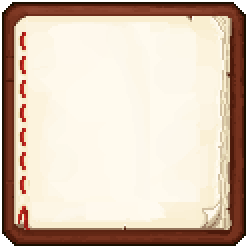
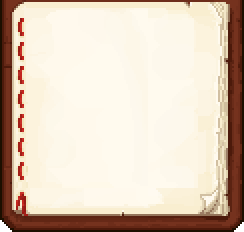
Revamped infopanel

Changed region(s): [[0.0, 0.0, 1.0, 1.0]]

diff --git a/css/main.css b/css/main.css
@@ -1,1 +1,1 @@
-html,body,div,span,applet,object,iframe,h1,h2,h3,h4,h5,h6,p,blockquote,pre,a,abbr,acronym,address,big,cite,code,del,dfn,em,img,ins,kbd,q,s,samp,small,strike,strong,sub,sup,tt,var,b,u,i,center,dl,dt,dd,ol,ul,li,fieldset,form,label,legend,table,caption,tbody,tfoot,thead,tr,th,td,article,aside,canvas,details,embed,figure,figcaption,footer,header,hgroup,menu,nav,output,ruby,section,summary,time,mark,audio,video{margin:0;padding:0;border:0;font-size:100%;font:inherit;vertical-align:baseline}article,aside,details,figcaption,figure,footer,header,hgroup,menu,nav,section{display:block}body{line-height:1}ol,ul{list-style:none}blockquote,q{quotes:none}blockquote:before,blockquote:after,q:before,q:after{content:"";content:none}table{border-collapse:collapse;border-spacing:0}/*! Generated by Font Squirrel (https://www.fontsquirrel.com) on January 29, 2019 */@font-face{font-family:"Minecrafton";src:url("minecrafton-webfont.woff2") format("woff2"),url("minecrafton-webfont.woff") format("woff");font-weight:normal;font-style:normal}*{box-sizing:border-box;-webkit-user-select:none;user-select:none;-moz-user-select:none;-ms-user-select:none}h1,h2,h3,li,a,p{font-family:"Minecrafton","Minecraftia",monospace,sans-serif;color:#fff}h1{font-size:48px;text-shadow:3px 3px 0 rgba(0,0,0,.5)}h2,li,p{font-size:32px;text-shadow:2px 2px 0 rgba(0,0,0,.5)}h3{font-size:16px;text-shadow:1px 1px 0 rgba(0,0,0,.5)}a{cursor:pointer;text-decoration:underline}a:hover{text-decoration:none}.start-message{text-align:center;padding:100px 0}.start-message h2{margin:20px 0}body,html,.base{height:100%}body{background:url("../images/backgrounds/dirt_dark.png") repeat left top,#281c13}body.locked{position:fixed;overflow-y:scroll;width:100%}.base{display:flex;flex-direction:column;align-items:stretch}.base .top,.base footer{flex-shrink:0}.base main{flex:1}.base .top header{background:url("../images/backgrounds/stone.png") repeat left top,#505050;z-index:10;display:flex;align-items:center;padding:15px 10px 10px 10px}.base .top header .header-content{display:flex;align-items:center;width:100%}.base .top header .header-content .logo{height:25px}.base .top header .header-content .separator{width:2px;background:#fff;border-right:1px solid rgba(0,0,0,.8);border-bottom:1px solid rgba(0,0,0,.8);margin:0 10px;align-self:stretch}.base .top header .header-content .box{display:flex;flex-direction:column;align-items:center}.base .top header .header-content .box .title{font-size:16px;text-shadow:1px 1px 0 rgba(0,0,0,.5);text-align:right}.base .top header .header-content .box .content{display:flex;flex-direction:column}.base .top header .header-content .box .relevant{display:none}.base .top header .header-content .box #edition_description{font-style:italic}.base .top header #button-nav-show{width:32px;height:32px;border:none;outline:none;cursor:pointer;background:url("../images/icons/ui/button_hamburger.png") no-repeat center center;display:block;padding:0;flex-shrink:0;background-size:cover}@media(min-width: 750px){.base .top header{padding:20px}.base .top header .header-content .logo{height:unset}.base .top header .header-content .separator{margin:0 30px}.base .top header .header-content .box{align-items:flex-start;margin-top:-7px}.base .top header .header-content .box .relevant{display:block}.base .top header .header-content .box .title{font-size:32px;text-shadow:2px 2px 0 rgba(0,0,0,.5);text-align:left}.base .top header .header-content .box .title,.base .top header .header-content .box .content{margin:0}.base .top header .header-content .box #edition_description{font-style:normal}.base .top header #button-nav-show{width:64px;height:64px}}.base footer{background:url("../images/backgrounds/stone.png") repeat left top,#505050;padding:20px}.base footer h3{text-align:right}#button-options{position:sticky}.editions-nav{background:url("../images/backgrounds/stone_dark.png") repeat left top local,#343434;position:fixed;top:0;right:0;height:100%;z-index:200;transition:width .5s;width:0;display:flex;flex-direction:column;overflow-x:hidden;overflow-y:auto;box-shadow:0 0 20px 0 rgba(0,0,0,.5);border-left:0 solid #484848}.editions-nav #button-nav-hide{flex-grow:0;flex-shrink:0;width:32px;height:32px;border:none;outline:none;cursor:pointer;background:url("../images/icons/ui/button_return.png") no-repeat center center;display:block;padding:0;background-size:cover;align-self:flex-end;margin:12.5px 10px}.editions-nav .editions-tab-list{flex-grow:0;flex-shrink:0}.editions-nav .editions-tab-list .edition-tab{cursor:pointer;display:block;text-shadow:2px 2px 0 rgba(0,0,0,.5);text-align:right;padding:5px 10px;white-space:nowrap}.editions-nav .editions-tab-list .edition-tab.empty{color:#585858;position:relative}.editions-nav .editions-tab-list .edition-tab.empty:before{content:"";display:block;position:absolute;left:0;right:0;top:0;bottom:0;background:url("../images/misc/soon.png") no-repeat bottom right}.editions-nav .editions-tab-list .edition-tab.selected{background:url("../images/backgrounds/stone.png") repeat left top,#505050;box-shadow:0 0 0 0 rgba(0,0,0,.8)}.editions-nav .options{flex:1;display:flex;flex-direction:column;align-items:stretch;justify-content:flex-end}.editions-nav .options button{border:4px solid transparent;border-bottom:6px solid transparent;outline:none;background:none;border-image-source:url("../images/borders/button.png");border-image-slice:4 4 6 4 fill;border-image-repeat:repeat repeat;color:#fff;font-size:32px;text-shadow:2px 2px 0 rgba(0,0,0,.5);font-family:"Minecrafton","Minecraftia",monospace,sans-serif;padding:.1em;margin:3px 2px;white-space:nowrap;cursor:pointer}.editions-nav .options button:hover{border-image-source:url("../images/borders/button_pressed.png")}.edition-panel{background:url("../images/backgrounds/plank_new.png") repeat-x left bottom,url("../images/backgrounds/plank_veryold.png") repeat-x left top,url("../images/backgrounds/plank_old.png") repeat left top,#54442a;display:flex;flex-direction:row;align-items:stretch;justify-content:flex-start}.timeline-panel{display:flex;flex-direction:row;justify-content:center;width:100%;box-shadow:0 0 30px 0 rgba(0,0,0,.75) inset}.timeline,.ruler,.upcoming-timeline{display:flex;position:relative;flex-direction:column}.preview{position:absolute;left:100%;margin-left:16px;display:flex;flex-direction:row;align-items:center}.preview>*{margin-right:16px}.preview img{height:32px}.preview .text-box{width:4em;display:none}.preview .text-box h2{margin:.4em 0;line-height:.8em}.preview .text-box .title{text-shadow:2px 0 #fff,4px 2px 0 rgba(0,0,0,.5);letter-spacing:2px}.preview .text-box .subtitle{font-style:italic}@media(min-width: 600px){.preview img{height:64px}}@media(min-width: 750px){.preview .text-box{display:block;width:8em}.preview img{height:32px}}@media(min-width: 900px){.preview .text-box{display:block;width:8em}.preview img{height:64px}}@media(min-width: 1200px){.preview .text-box{display:block;width:15em}}@media(min-width: 1600px){.preview .text-box{display:block;width:30em}}.timeline{margin:182px 0 172px;width:46px}.timeline .year{background:url("../images/timeline/timeline.png") top center repeat-y;margin:72px 0 82px 0;position:relative;display:flex;justify-content:center}.timeline .year::before{display:block;content:"";background:url("../images/timeline/timeline_start.png") no-repeat;width:46px;height:72px;position:absolute;top:-72px}.timeline .year::after{display:block;content:"";background:url("../images/timeline/timeline_end.png") no-repeat;width:46px;height:82px;position:absolute;bottom:-82px}.timeline .year .version{position:absolute;z-index:10;cursor:pointer;display:flex;flex-direction:row;align-items:center;justify-content:flex-end}.timeline .year .version.alt .preview{left:unset;right:100%;margin-left:unset;margin-right:16px;flex-direction:row-reverse}.timeline .year .version.alt .preview h1,.timeline .year .version.alt .preview h2,.timeline .year .version.alt .preview h3{text-align:right}.timeline .year .version.alt .preview>*{margin-right:unset;margin-left:16px}.timeline .year .version.alt .box .preview{margin-right:26px}.timeline .year .version.update-major{background:url("../images/timeline/icon_update_major.png");width:52px;height:52px;margin-top:-26px}.timeline .year .version.update-minor{background:url("../images/timeline/icon_update_minor.png");width:44px;height:44px;margin-top:-22px;z-index:15}.timeline .year .version.update-event{background:url("../images/timeline/icon_update_event.png");width:44px;height:44px;margin-top:-22px;z-index:15}.timeline .year .version.update-memory{background:url("../images/timeline/icon_update_memory.png");width:44px;height:44px;margin-top:-22px;z-index:15}.timeline .year .version.endpoint{width:80px;height:80px}.timeline .year .version.endpoint.first{background:url("../images/timeline/icon_first.png") no-repeat;margin-top:-90px;justify-content:center;align-items:center}.timeline .year .version.endpoint.first .box{margin-bottom:120px}.timeline .year .version.endpoint.first .preview{margin-left:1px}.timeline .year .version.endpoint.today{background:url("../images/timeline/icon_today.png") no-repeat;margin-top:10px;justify-content:center;align-items:center}.timeline .year .version.endpoint.today .box{align-self:flex-start;margin-top:120px}.timeline .year .version.nointeract{cursor:unset}.timeline .year .version .box{position:relative;border:8px solid transparent;border-image:url("../images/borders/panel_basic.png") 8 fill stretch stretch;padding:10px;display:flex;flex-direction:row;align-items:center;justify-content:flex-end;align-self:flex-end}.timeline .year .version .box .preview{margin-left:26px}.timeline .year .version .box .content{height:48px;display:flex;flex-direction:column;justify-content:center;align-items:stretch}.timeline .year .version .box .content h1{flex:1;white-space:nowrap;text-align:center;margin:-7px 0;font-size:32px;text-shadow:2px 2px 0 rgba(0,0,0,.5)}.timeline .upcoming-timeline{margin-top:388px;margin-bottom:-132px}.timeline .upcoming-timeline:before{display:block;content:"";background:url("../images/timeline/timeline_upcoming.png") no-repeat;width:46px;height:206px;position:absolute;top:-206px}@media(min-width: 900px){.timeline{margin:246px 0 236px 0}.timeline .year .version.endpoint.first .box{margin-bottom:140px}.timeline .year .version.endpoint.today .box{margin-top:140px}.timeline .year .version .box .content{height:72px}.timeline .year .version .box .content h1{font-size:48px;text-shadow:3px 3px 0 rgba(0,0,0,.5);margin:-10px 0}.timeline .upcoming-timeline{margin-top:452px;margin-bottom:-176px}}.ruler{padding:182px 0 172px 0;flex-shrink:0;width:32px;background:url("../images/backgrounds/log_new.png") repeat-x left bottom,url("../images/backgrounds/log_old.png") repeat left top,#6b5432}.ruler .year{position:relative;display:flex;flex-direction:column;justify-content:flex-start;align-items:center;padding-bottom:154px;box-sizing:content-box}.ruler .year .number{font-size:16px;text-shadow:1px 1px 0 rgba(0,0,0,.5)}.ruler .year .number-ago{display:none;text-shadow:1px 1px 0 rgba(0,0,0,.5)}.ruler .year:after{display:block;content:"";background:url("../images/ruler/arrow_tiny.png") no-repeat;width:40px;height:40px;position:absolute;left:100%;margin-top:-10px}.ruler .upcoming-ruler{margin-top:388px;margin-bottom:-132px}@media(min-width: 600px){.ruler{width:64px}.ruler .year .number{font-size:32px;text-shadow:2px 2px 0 rgba(0,0,0,.5);margin-top:-0.25em}.ruler .year .number-ago{display:block}}@media(min-width: 750px){.ruler{width:128px}.ruler .year .number{font-size:48px;text-shadow:3px 3px 0 rgba(0,0,0,.5);margin-top:-0.35em}.ruler .year:after{background:url("../images/ruler/arrow.png") no-repeat;width:76px;height:76px;margin-top:-28px}}@media(min-width: 900px){.ruler{padding:246px 0 236px 0}.ruler .upcoming-ruler{margin-top:452px;margin-bottom:-176px}}.infopanel-wrapper{position:fixed;width:100%;height:100%;display:flex;align-items:center;justify-content:center;top:0;left:0;z-index:90;background:rgba(0,0,0,.49)}.infopanel{border:52px solid transparent;border-image:url("../images/borders/panel_book.png") 52 fill repeat repeat;width:94%;height:96%;display:flex;flex-direction:column}.infopanel h1{font-size:32px}.infopanel h2,.infopanel h3,.infopanel a,.infopanel li,.infopanel p{font-size:16px}.infopanel h1,.infopanel h2,.infopanel h3,.infopanel a,.infopanel li,.infopanel p{text-shadow:none;color:#000}.infopanel header{margin-bottom:10px;padding-bottom:10px;border-bottom:2px solid rgba(0,0,0,.2)}.infopanel header .title{display:flex;justify-content:space-between}.infopanel header .title #infopanel-close{outline:none;border:none;background:url("../images/icons/ui/button_close.png") no-repeat center center;cursor:pointer;flex-shrink:0;width:48px;height:48px}.infopanel header .title #infopanel-close:hover{filter:brightness(1.1)}.infopanel .content{overflow-y:auto}.infopanel .content #infopanel-fun-fact{margin-bottom:10px;padding-bottom:10px;border-bottom:2px solid rgba(0,0,0,.2);font-style:italic;line-height:.8em}.infopanel .content #infopanel-video-link-wrapper{display:flex;flex-direction:row;align-items:center}.infopanel .content #infopanel-video-link-wrapper:before{content:"";width:16px;height:11px;display:inline-block;margin-right:5px;background:url("../images/icons/ui/youtube.png") no-repeat center center;background-size:cover}.infopanel .content #infopanel-video-wrapper{position:relative;padding-bottom:45%;padding-top:25px;height:0;width:80%;margin-top:10px}.infopanel .content #infopanel-video-wrapper iframe{padding:4px;border:2px solid rgba(0,0,0,.2);position:absolute;top:0;left:0;width:100%;height:100%}.infopanel li{margin-bottom:-0.2em}.infopanel li:before{content:"• "}.infopanel li:last-child{margin-bottom:0}@media(min-width: 600px){.infopanel h1{font-size:48px}.infopanel h2,.infopanel a,.infopanel li,.infopanel p{font-size:32px}.infopanel .content .infopanel-video-link-wrapper:before{content:"";width:32px;height:22px;margin-right:10px}}@media(min-width: 750px){.infopanel{width:80%;height:80%}}@media(min-width: 900px){.infopanel{width:70%;height:70%}}@media(min-width: 1600px){.infopanel{width:65%;height:75%}}.hidden{display:none !important}/*# sourceMappingURL=main.css.map */
+html,body,div,span,applet,object,iframe,h1,h2,h3,h4,h5,h6,p,blockquote,pre,a,abbr,acronym,address,big,cite,code,del,dfn,em,img,ins,kbd,q,s,samp,small,strike,strong,sub,sup,tt,var,b,u,i,center,dl,dt,dd,ol,ul,li,fieldset,form,label,legend,table,caption,tbody,tfoot,thead,tr,th,td,article,aside,canvas,details,embed,figure,figcaption,footer,header,hgroup,menu,nav,output,ruby,section,summary,time,mark,audio,video{margin:0;padding:0;border:0;font-size:100%;font:inherit;vertical-align:baseline}article,aside,details,figcaption,figure,footer,header,hgroup,menu,nav,section{display:block}body{line-height:1}ol,ul{list-style:none}blockquote,q{quotes:none}blockquote:before,blockquote:after,q:before,q:after{content:"";content:none}table{border-collapse:collapse;border-spacing:0}/*! Generated by Font Squirrel (https://www.fontsquirrel.com) on January 29, 2019 */@font-face{font-family:"Minecrafton";src:url("minecrafton-webfont.woff2") format("woff2"),url("minecrafton-webfont.woff") format("woff");font-weight:normal;font-style:normal}*{box-sizing:border-box;-webkit-user-select:none;user-select:none;-moz-user-select:none;-ms-user-select:none}h1,h2,h3,li,a,p{font-family:"Minecrafton","Minecraftia",monospace,sans-serif;color:#fff}h1{font-size:48px;text-shadow:3px 3px 0 rgba(0,0,0,.5)}h2,li,p{font-size:32px;text-shadow:2px 2px 0 rgba(0,0,0,.5)}h3{font-size:16px;text-shadow:1px 1px 0 rgba(0,0,0,.5)}a{cursor:pointer;text-decoration:underline}a:hover{text-decoration:none}.start-message{text-align:center;padding:100px 0}.start-message h2{margin:20px 0}body,html,.base{height:100%}body{background:url("../images/backgrounds/dirt_dark.png") repeat left top,#281c13}body.locked{position:fixed;overflow-y:scroll;width:100%}.base{display:flex;flex-direction:column;align-items:stretch}.base .top,.base footer{flex-shrink:0}.base main{flex:1}.base .top header{background:url("../images/backgrounds/stone.png") repeat left top,#505050;z-index:10;display:flex;align-items:center;padding:15px 10px 10px 10px}.base .top header .header-content{display:flex;align-items:center;width:100%}.base .top header .header-content .logo{height:25px}.base .top header .header-content .separator{width:2px;background:#fff;border-right:1px solid rgba(0,0,0,.8);border-bottom:1px solid rgba(0,0,0,.8);margin:0 10px;align-self:stretch}.base .top header .header-content .box{display:flex;flex-direction:column;align-items:center}.base .top header .header-content .box .title{font-size:16px;text-shadow:1px 1px 0 rgba(0,0,0,.5);text-align:right}.base .top header .header-content .box .content{display:flex;flex-direction:column}.base .top header .header-content .box .relevant{display:none}.base .top header .header-content .box #edition_description{font-style:italic}.base .top header #button-nav-show{width:32px;height:32px;border:none;outline:none;cursor:pointer;background:url("../images/icons/ui/button_hamburger.png") no-repeat center center;display:block;padding:0;flex-shrink:0;background-size:cover}@media(min-width: 750px){.base .top header{padding:20px}.base .top header .header-content .logo{height:unset}.base .top header .header-content .separator{margin:0 30px}.base .top header .header-content .box{align-items:flex-start;margin-top:-7px}.base .top header .header-content .box .relevant{display:block}.base .top header .header-content .box .title{font-size:32px;text-shadow:2px 2px 0 rgba(0,0,0,.5);text-align:left}.base .top header .header-content .box .title,.base .top header .header-content .box .content{margin:0}.base .top header .header-content .box #edition_description{font-style:normal}.base .top header #button-nav-show{width:64px;height:64px}}.base footer{background:url("../images/backgrounds/stone.png") repeat left top,#505050;padding:20px}.base footer h3{text-align:right}#button-options{position:sticky}.editions-nav{background:url("../images/backgrounds/stone_dark.png") repeat left top local,#343434;position:fixed;top:0;right:0;height:100%;z-index:200;transition:width .5s;width:0;display:flex;flex-direction:column;overflow-x:hidden;overflow-y:auto;box-shadow:0 0 20px 0 rgba(0,0,0,.5);border-left:0 solid #484848}.editions-nav #button-nav-hide{flex-grow:0;flex-shrink:0;width:32px;height:32px;border:none;outline:none;cursor:pointer;background:url("../images/icons/ui/button_return.png") no-repeat center center;display:block;padding:0;background-size:cover;align-self:flex-end;margin:12.5px 10px}.editions-nav .editions-tab-list{flex-grow:0;flex-shrink:0}.editions-nav .editions-tab-list .edition-tab{cursor:pointer;display:block;text-shadow:2px 2px 0 rgba(0,0,0,.5);text-align:right;padding:5px 10px;white-space:nowrap}.editions-nav .editions-tab-list .edition-tab.empty{color:#585858;position:relative}.editions-nav .editions-tab-list .edition-tab.empty:before{content:"";display:block;position:absolute;left:0;right:0;top:0;bottom:0;background:url("../images/misc/soon.png") no-repeat bottom right}.editions-nav .editions-tab-list .edition-tab.selected{background:url("../images/backgrounds/stone.png") repeat left top,#505050;box-shadow:0 0 0 0 rgba(0,0,0,.8)}.editions-nav .options{flex:1;display:flex;flex-direction:column;align-items:stretch;justify-content:flex-end}.editions-nav .options button{border:4px solid transparent;border-bottom:6px solid transparent;outline:none;background:none;border-image-source:url("../images/borders/button.png");border-image-slice:4 4 6 4 fill;border-image-repeat:repeat repeat;color:#fff;font-size:32px;text-shadow:2px 2px 0 rgba(0,0,0,.5);font-family:"Minecrafton","Minecraftia",monospace,sans-serif;padding:.1em;margin:3px 2px;white-space:nowrap;cursor:pointer}.editions-nav .options button:hover{border-image-source:url("../images/borders/button_pressed.png")}.edition-panel{background:url("../images/backgrounds/plank_new.png") repeat-x left bottom,url("../images/backgrounds/plank_veryold.png") repeat-x left top,url("../images/backgrounds/plank_old.png") repeat left top,#54442a;display:flex;flex-direction:row;align-items:stretch;justify-content:flex-start}.timeline-panel{display:flex;flex-direction:row;justify-content:center;width:100%;box-shadow:0 0 30px 0 rgba(0,0,0,.75) inset}.timeline,.ruler,.upcoming-timeline{display:flex;position:relative;flex-direction:column}.preview{position:absolute;left:100%;margin-left:16px;display:flex;flex-direction:row;align-items:center}.preview>*{margin-right:16px}.preview img{height:32px}.preview .text-box{width:4em;display:none}.preview .text-box h2{margin:.4em 0;line-height:.8em}.preview .text-box .title{text-shadow:2px 0 #fff,4px 2px 0 rgba(0,0,0,.5);letter-spacing:2px}.preview .text-box .subtitle{font-style:italic}@media(min-width: 600px){.preview img{height:64px}}@media(min-width: 750px){.preview .text-box{display:block;width:8em}.preview img{height:32px}}@media(min-width: 900px){.preview .text-box{display:block;width:8em}.preview img{height:64px}}@media(min-width: 1200px){.preview .text-box{display:block;width:15em}}@media(min-width: 1600px){.preview .text-box{display:block;width:30em}}.timeline{margin:182px 0 172px;width:46px}.timeline .year{background:url("../images/timeline/timeline.png") top center repeat-y;margin:72px 0 82px 0;position:relative;display:flex;justify-content:center}.timeline .year::before{display:block;content:"";background:url("../images/timeline/timeline_start.png") no-repeat;width:46px;height:72px;position:absolute;top:-72px}.timeline .year::after{display:block;content:"";background:url("../images/timeline/timeline_end.png") no-repeat;width:46px;height:82px;position:absolute;bottom:-82px}.timeline .year .version{position:absolute;z-index:10;cursor:pointer;display:flex;flex-direction:row;align-items:center;justify-content:flex-end}.timeline .year .version.alt .preview{left:unset;right:100%;margin-left:unset;margin-right:16px;flex-direction:row-reverse}.timeline .year .version.alt .preview h1,.timeline .year .version.alt .preview h2,.timeline .year .version.alt .preview h3{text-align:right}.timeline .year .version.alt .preview>*{margin-right:unset;margin-left:16px}.timeline .year .version.alt .box .preview{margin-right:26px}.timeline .year .version.update-major{background:url("../images/timeline/icon_update_major.png");width:52px;height:52px;margin-top:-26px}.timeline .year .version.update-minor{background:url("../images/timeline/icon_update_minor.png");width:44px;height:44px;margin-top:-22px;z-index:15}.timeline .year .version.update-event{background:url("../images/timeline/icon_update_event.png");width:44px;height:44px;margin-top:-22px;z-index:15}.timeline .year .version.update-memory{background:url("../images/timeline/icon_update_memory.png");width:44px;height:44px;margin-top:-22px;z-index:15}.timeline .year .version.endpoint{width:80px;height:80px}.timeline .year .version.endpoint.first{background:url("../images/timeline/icon_first.png") no-repeat;margin-top:-90px;justify-content:center;align-items:center}.timeline .year .version.endpoint.first .box{margin-bottom:120px}.timeline .year .version.endpoint.first .preview{margin-left:1px}.timeline .year .version.endpoint.today{background:url("../images/timeline/icon_today.png") no-repeat;margin-top:10px;justify-content:center;align-items:center}.timeline .year .version.endpoint.today .box{align-self:flex-start;margin-top:120px}.timeline .year .version.nointeract{cursor:unset}.timeline .year .version .box{position:relative;border:8px solid transparent;border-image:url("../images/borders/panel_basic.png") 8 fill stretch stretch;padding:10px;display:flex;flex-direction:row;align-items:center;justify-content:flex-end;align-self:flex-end}.timeline .year .version .box .preview{margin-left:26px}.timeline .year .version .box .content{height:48px;display:flex;flex-direction:column;justify-content:center;align-items:stretch}.timeline .year .version .box .content h1{flex:1;white-space:nowrap;text-align:center;margin:-7px 0;font-size:32px;text-shadow:2px 2px 0 rgba(0,0,0,.5)}.timeline .upcoming-timeline{margin-top:388px;margin-bottom:-132px}.timeline .upcoming-timeline:before{display:block;content:"";background:url("../images/timeline/timeline_upcoming.png") no-repeat;width:46px;height:206px;position:absolute;top:-206px}@media(min-width: 900px){.timeline{margin:246px 0 236px 0}.timeline .year .version.endpoint.first .box{margin-bottom:140px}.timeline .year .version.endpoint.today .box{margin-top:140px}.timeline .year .version .box .content{height:72px}.timeline .year .version .box .content h1{font-size:48px;text-shadow:3px 3px 0 rgba(0,0,0,.5);margin:-10px 0}.timeline .upcoming-timeline{margin-top:452px;margin-bottom:-176px}}.ruler{padding:182px 0 172px 0;flex-shrink:0;width:32px;background:url("../images/backgrounds/log_new.png") repeat-x left bottom,url("../images/backgrounds/log_old.png") repeat left top,#6b5432}.ruler .year{position:relative;display:flex;flex-direction:column;justify-content:flex-start;align-items:center;padding-bottom:154px;box-sizing:content-box}.ruler .year .number{font-size:16px;text-shadow:1px 1px 0 rgba(0,0,0,.5)}.ruler .year .number-ago{display:none;text-shadow:1px 1px 0 rgba(0,0,0,.5)}.ruler .year:after{display:block;content:"";background:url("../images/ruler/arrow_tiny.png") no-repeat;width:40px;height:40px;position:absolute;left:100%;margin-top:-10px}.ruler .upcoming-ruler{margin-top:388px;margin-bottom:-132px}@media(min-width: 600px){.ruler{width:64px}.ruler .year .number{font-size:32px;text-shadow:2px 2px 0 rgba(0,0,0,.5);margin-top:-0.25em}.ruler .year .number-ago{display:block}}@media(min-width: 750px){.ruler{width:128px}.ruler .year .number{font-size:48px;text-shadow:3px 3px 0 rgba(0,0,0,.5);margin-top:-0.35em}.ruler .year:after{background:url("../images/ruler/arrow.png") no-repeat;width:76px;height:76px;margin-top:-28px}}@media(min-width: 900px){.ruler{padding:246px 0 236px 0}.ruler .upcoming-ruler{margin-top:452px;margin-bottom:-176px}}.infopanel-wrapper{position:fixed;width:100%;height:100%;display:flex;align-items:center;justify-content:center;top:0;left:0;z-index:90;background:rgba(0,0,0,.49)}.infopanel{display:flex;flex-direction:column;width:94%;height:96%}.infopanel .top-bar{border:12px solid transparent;border-bottom-width:4px;border-image:url("../images/borders/panel_book_top.png") 12 12 4 12 fill repeat repeat;display:flex;flex-direction:row;justify-content:space-between;align-items:center;flex-shrink:0}.infopanel .top-bar #infopanel-icon{height:32px;margin-right:10px}.infopanel .top-bar #infopanel-close{outline:none;border:none;background:url("../images/icons/ui/button_close.png") no-repeat center center;cursor:pointer;width:36px;height:36px;margin-left:auto;display:block}.infopanel .top-bar #infopanel-close:hover{filter:brightness(1.1)}.infopanel .content{flex:1;border:48px solid transparent;border-top-width:18px;border-image:url("../images/borders/panel_book.png") 18 48 48 48 fill repeat repeat;display:flex;flex-direction:column;overflow-y:auto;overflow-x:hidden}.infopanel .content h1{font-size:32px}.infopanel .content h2,.infopanel .content h3,.infopanel .content a,.infopanel .content li,.infopanel .content p{font-size:16px}.infopanel .content h1,.infopanel .content h2,.infopanel .content h3,.infopanel .content a,.infopanel .content li,.infopanel .content p{text-shadow:none;color:#000}.infopanel .content li{margin-bottom:-0.2em}.infopanel .content li:before{content:"• "}.infopanel .content li:last-child{margin-bottom:0}.infopanel .content header{margin-bottom:10px;padding-bottom:10px;border-bottom:2px solid rgba(0,0,0,.2)}.infopanel .content #infopanel-fun-fact{margin-bottom:10px;padding-bottom:10px;border-bottom:2px solid rgba(0,0,0,.2);font-style:italic;line-height:.8em}.infopanel .content #infopanel-video-link-wrapper{display:flex;flex-direction:row;align-items:center}.infopanel .content #infopanel-video-link-wrapper:before{content:"";width:16px;height:11px;display:inline-block;margin-right:5px;background:url("../images/icons/ui/youtube.png") no-repeat center center;background-size:cover}.infopanel .content #infopanel-video-wrapper{position:relative;padding-bottom:45%;padding-top:25px;height:0;width:80%;margin-top:10px}.infopanel .content #infopanel-video-wrapper iframe{padding:4px;border:2px solid rgba(0,0,0,.2);position:absolute;top:0;left:0;width:100%;height:100%}@media(min-width: 600px){.infopanel .content h1{font-size:48px}.infopanel .content h2,.infopanel .content a,.infopanel .content li,.infopanel .content p{font-size:32px}.infopanel .content .infopanel-video-link-wrapper:before{content:"";width:32px;height:22px;margin-right:10px}}@media(min-width: 750px){.infopanel{width:80%;height:80%}}@media(min-width: 900px){.infopanel{width:70%;height:70%}}@media(min-width: 1600px){.infopanel{width:65%;height:75%}}.hidden{display:none !important}/*# sourceMappingURL=main.css.map */

diff --git a/sass/main.scss b/sass/main.scss
@@ -1034,55 +1034,43 @@ $upcoming-label-height: 206px;
 
 .infopanel {
 
-	border: 52px solid transparent;
-	border-image: url("../images/borders/panel_book.png") 52 fill repeat repeat;
-	width: 94%;
-	height: 96%;
 	display: flex;
 	flex-direction: column;
+	width: 94%;
+	height: 96%;
 
-	h1 {
-		font-size: $font-size-standard;
-	}
+	.top-bar {
 
-	h2,h3,a,li,p {
-		font-size: $font-size-small;
-	}
+		border: 12px solid transparent;
+		border-bottom-width: 4px;
+		border-image: url("../images/borders/panel_book_top.png") 12 12 4 12 fill repeat repeat;
+		display: flex;
+		flex-direction: row;
+		justify-content: space-between;
+		align-items: center;
+		flex-shrink: 0;
 
-	h1,h2,h3,a,li,p {
+		#infopanel-icon {
 
-		text-shadow: none;
-		color: $color-text-secondary;
+			height: 32px;
+			margin-right: 10px;
 
-	}
+		}
 
-	header {
+		#infopanel-close {
 
-		margin-bottom: 10px;
-		padding-bottom: 10px;
-		border-bottom: 2px solid transparentize($color-text-secondary,0.8);
+			outline: none;
+			border: none;
+			background: url("../images/icons/ui/button_close.png") no-repeat center center;
+			cursor: pointer;
+			width: 36px;
+			height: 36px;
+			margin-left: auto;
+			display: block;
 
-		.title {
+			&:hover {
 
-			display: flex;
-			justify-content: space-between;
-
-			#infopanel-close {
-
-				outline: none;
-				border: none;
-				background: url("../images/icons/ui/button_close.png") no-repeat center center;
-				cursor: pointer;
-				flex-shrink: 0;
-
-				width: 48px;
-				height: 48px;
-
-				&:hover {
-
-					filter: brightness(1.1);
-
-				}
+				filter: brightness(1.1);
 
 			}
 
@@ -1092,7 +1080,53 @@ $upcoming-label-height: 206px;
 
 	.content {
 
+		flex: 1;
+		border: 48px solid transparent;
+		border-top-width: 18px;
+		border-image: url("../images/borders/panel_book.png") 18 48 48 48 fill repeat repeat;
+		display: flex;
+		flex-direction: column;
 		overflow-y: auto;
+		overflow-x: hidden;
+
+		h1 {
+			font-size: $font-size-standard;
+		}
+
+		h2,h3,a,li,p {
+			font-size: $font-size-small;
+		}
+
+		h1,h2,h3,a,li,p {
+
+			text-shadow: none;
+			color: $color-text-secondary;
+
+		}
+
+		li {
+
+			margin-bottom: -0.2em;
+
+			&:before {
+
+				content: "• ";
+
+			}
+
+			&:last-child {
+				margin-bottom: 0;
+			}
+
+		}
+
+		header {
+
+			margin-bottom: 10px;
+			padding-bottom: 10px;
+			border-bottom: 2px solid transparentize($color-text-secondary,0.8);
+
+		}
 
 		#infopanel-fun-fact {
 
@@ -1148,32 +1182,17 @@ $upcoming-label-height: 206px;
 
 	}
 
-	li {
-
-		margin-bottom: -0.2em;
-
-		&:before {
-
-			content: "• ";
-
-		}
-
-		&:last-child {
-			margin-bottom: 0;
-		}
-
-	}
-
 	@include for-600-up {
-		h1 {
-			font-size: $font-size-big;
-		}
-
-		h2,a,li,p {
-			font-size: $font-size-standard;
-		}
 
 		.content {
+
+			h1 {
+				font-size: $font-size-big;
+			}
+
+			h2,a,li,p {
+				font-size: $font-size-standard;
+			}
 
 			.infopanel-video-link-wrapper {
 
@@ -1189,6 +1208,7 @@ $upcoming-label-height: 206px;
 			}
 
 		}
+
 	}
 
 	@include for-750-up {

diff --git a/js/index.js b/js/index.js
@@ -16,6 +16,7 @@ const MONTH_NAMES = ["January", "February", "March", "April", "May", "June", "Ju
 const infoWrapperDOM = id("infopanel-wrapper");
 const infoCloseDOM = id("infopanel-close");
 const infoTitleDOM = id("infopanel-title");
+const infoIconDOM = id("infopanel-icon");
 const infoSubtitleDOM = id("infopanel-subtitle");
 const infoDateDOM = id("infopanel-date");
 const infoFunFactDOM = id("infopanel-fun-fact");
@@ -522,6 +523,7 @@ function makeBox(version, edition, date) {
 
 function showInfopanel(version) {
 
+	let hasIcon = version.icon !== undefined;
 	let hasTitle = version.title !== undefined;
 	let hasSubtitle = version.subtitle !== undefined;
 	let hasDate = version.date !== undefined;
@@ -540,6 +542,14 @@ function showInfopanel(version) {
 	}
 	else {
 		infoTitleDOM.innerText = "Unknown Update";
+	}
+
+	if (hasIcon) {
+		show(infoIconDOM);
+		infoIconDOM.src = ICON_VERSION_PATH + version.icon;
+	}
+	else {
+		hide(infoIconDOM);
 	}
 
 	if (hasSubtitle && hasTitle) {
@@ -633,7 +643,6 @@ function showInfopanel(version) {
 		show(infoVideoLinkWrapperDOM);
 	} 
 	else {
-		player.pauseVideo();
 		hide(infoVideoWrapperDOM);
 		hide(infoVideoLinkWrapperDOM)
 	}

diff --git a/index.html b/index.html
@@ -101,15 +101,21 @@
 		</div>
 
 		<div class="infopanel-wrapper hidden" id="infopanel-wrapper">
+
 			<div class="infopanel">
-				<header>
-					<h1 class="title">
-						<span id="infopanel-title"></span>
-						<button id="infopanel-close"></button>
-					</h1>
-					<h2><span id="infopanel-subtitle"></span><span id="infopanel-date"></span></h2>
-				</header>
+
+				<div class="top-bar">
+					<img id="infopanel-icon">
+					<button id="infopanel-close"></button>
+				</div>
+
 				<section class="content" id="infopanel-scroller">
+
+					<header>
+						<h1 id="infopanel-title"></h1>
+						<h2><span id="infopanel-subtitle"></span><span id="infopanel-date"></span></h2>
+					</header>
+
 					<p id="infopanel-fun-fact"></p>
 					<h2 id="infopanel-main-label">The main features of this update are...</h2>
 					<ul id="infopanel-main-features"></ul>
@@ -122,8 +128,11 @@
 						<div id="infopanel-video"></div>
 					</div>
 					<a id="infopanel-learn-more"><h2>Learn more about this update</h2></a>
+
 				</section>
+
 			</div>
+
 		</div>
 
 		<script type="application/javascript" src="js/index.js"></script>
